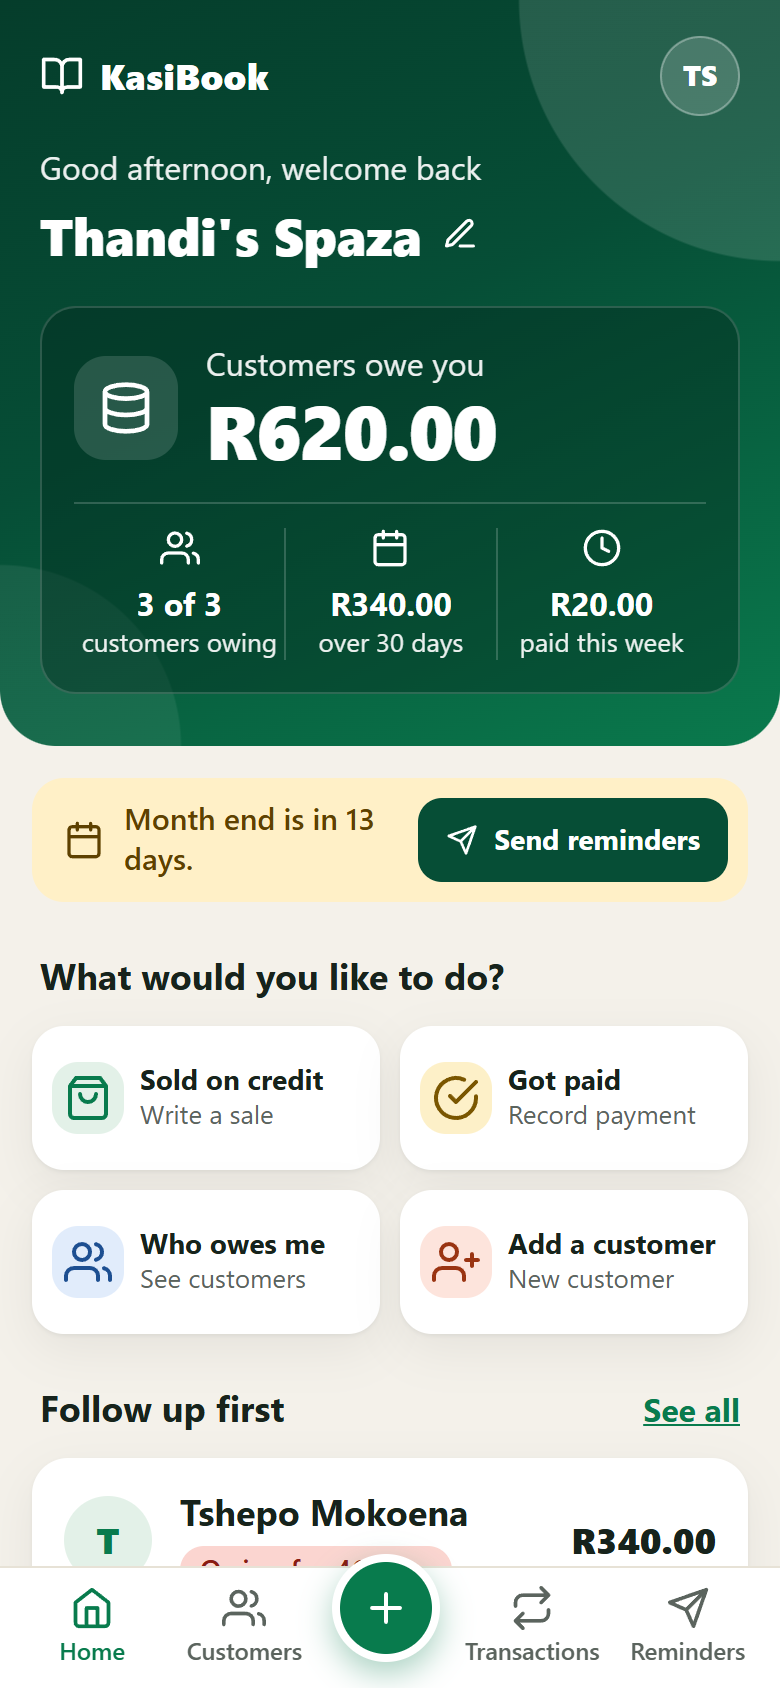
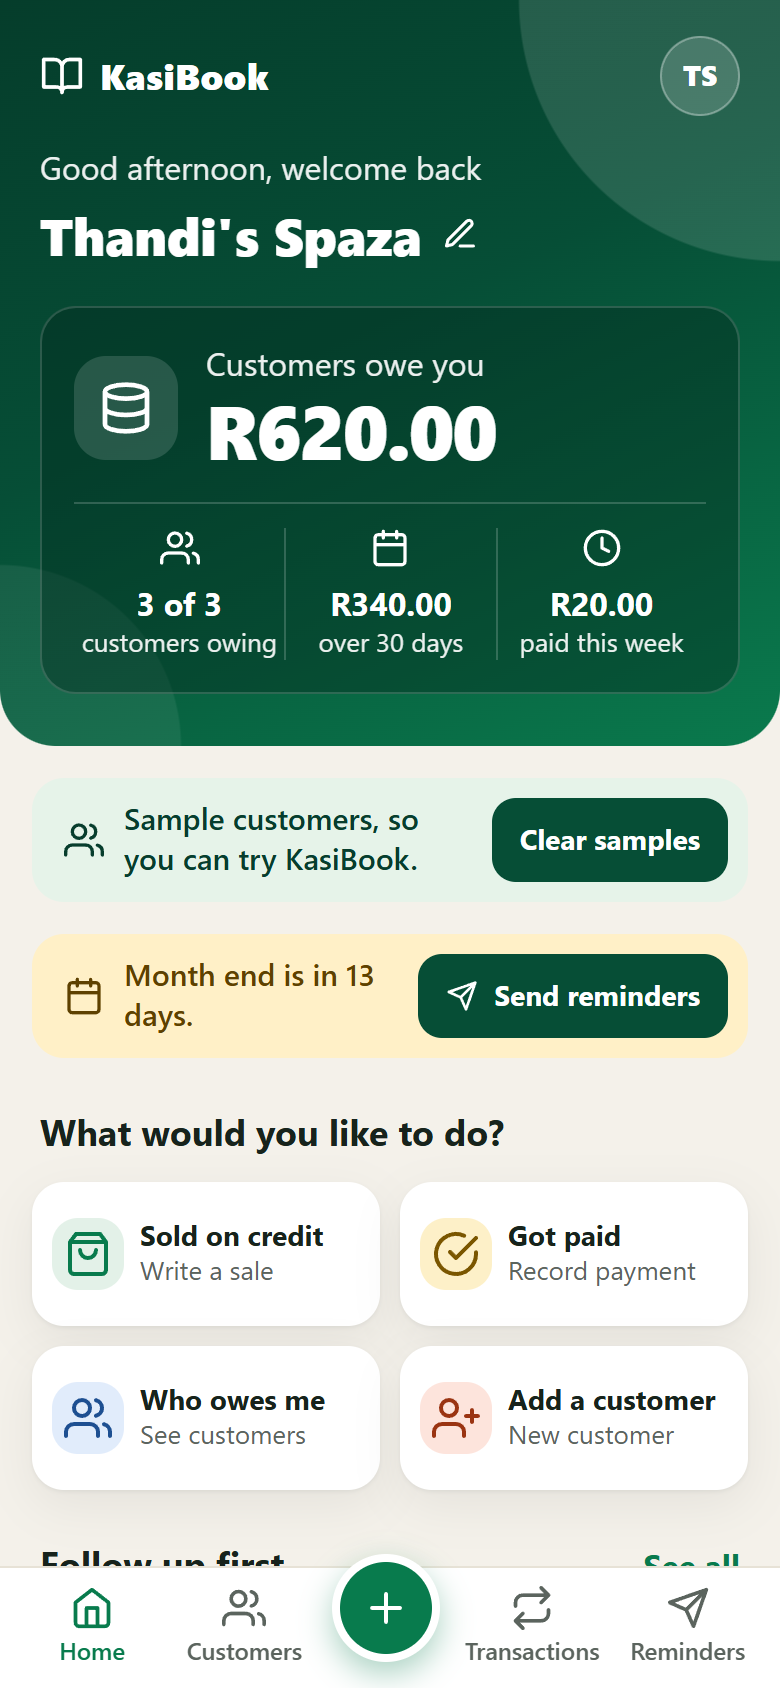
Start new shops with sample customers by default

Changed region(s): [[0.0308, 0.4621, 0.9846, 0.955]]

diff --git a/index.html b/index.html
@@ -63,8 +63,9 @@ button, a { -webkit-tap-highlight-color: transparent; }
 .kpis span { display: block; font-size: 13px; line-height: 1.25; opacity: .92; }
 .banner { display: flex; align-items: center; gap: 10px; margin: 16px 16px 0; padding: 10px 10px 10px 16px; border-radius: 16px; background: #fff0c7; color: #5e4100; font-size: 15px; font-weight: 600; line-height: 1.3; }
 .banner span { flex: 1; }
+.banner.info { background: #e6f3e9; color: #073d2d; }
 .banner i { display: none; font-style: normal; }
-.send { flex: none; display: inline-flex; align-items: center; gap: 8px; min-height: 42px; padding: 0 14px; border-radius: 12px; background: var(--forest); color: #fff; font-size: 14px; font-weight: 700; text-decoration: none; white-space: nowrap; }
+.send { flex: none; border: 0; cursor: pointer; display: inline-flex; align-items: center; gap: 8px; min-height: 42px; padding: 0 14px; border-radius: 12px; background: var(--forest); color: #fff; font-size: 14px; font-weight: 700; text-decoration: none; white-space: nowrap; }
 
 /* Home */
 .tiles { display: grid; grid-template-columns: 1fr 1fr; gap: 10px; margin: 0 16px; }
@@ -659,12 +660,12 @@ function welcomeScreen() {
       step("clock", "gold", "See who owes you", "Every balance, and how long it has been owing."),
       step("chat", "blue", "Remind them on WhatsApp", "One tap sends a polite message with their statement.")),
     el("p", { class: "promise" }, icon("phone", 18), "Works with no data. No sign-up. Free."),
-    el("form", { class: "card", onsubmit: (event) => { event.preventDefault(); startBook(shop.value.trim(), false); } },
+    el("form", { class: "card", onsubmit: (event) => { event.preventDefault(); startBook(shop.value.trim(), true); } },
       viewChoice(),
       el("label", { for: "shop" }, "What is your shop called?"),
       shop,
-      el("button", { class: "btn primary" }, "Start my book"),
-      el("button", { type: "button", class: "btn ghost", onclick: () => startBook(shop.value.trim(), true) }, "Try it with sample customers")),
+      el("button", { class: "btn primary" }, "Start my book with sample customers"),
+      el("button", { type: "button", class: "btn ghost", onclick: () => startBook(shop.value.trim(), false) }, "Start with an empty book")),
     el("p", { class: "note", style: "text-align:center;margin-bottom:24px" }, "Your book stays on this device. Nobody else can see it."));
 }
 
@@ -697,6 +698,9 @@ function homeScreen() {
           kpi("users", `${owing.length} of ${book.customers.length}`, "customers owing"),
           kpi("calendar", rand(overdue), "over 30 days"),
           kpi("clock", rand(paidSince(book.customers, 7)), "paid this week")))),
+    book.customers.some((customer) => customer.sample) && el("p", { class: "banner info" }, icon("users", 20),
+      el("span", {}, "Sample customers, so you can try KasiBook."),
+      el("button", { class: "send", onclick: clearSamples }, "Clear samples")),
     owing.length > 0 && el("p", { class: "banner" }, icon("calendar", 20),
       el("span", {}, left ? `Month end is in ${left} day${left === 1 ? "" : "s"}.` : "Today is month end.", el("i", {}, " A good time to send reminders.")),
       el("a", { class: "send", href: "#list=remind" }, icon("send", 16), "Send reminders")),
@@ -710,9 +714,6 @@ function homeScreen() {
       el("div", { class: "section" }, el("h2", {}, "Follow up first"), el("a", { href: "#list" }, "See all")),
       el("ul", { class: "list compact" }, tableHead(), followUp.map((customer) => customerRow(customer)))],
     book.customers.length === 0 && emptyState("Your book is empty", "Start by adding your first customer. Then record what they buy on credit.", addButton("Add your first customer")),
-    book.customers.some((customer) => customer.sample) && el("p", { class: "note" },
-      "These are sample customers so you can try KasiBook. ",
-      el("button", { class: "link", onclick: clearSamples }, "Clear samples")),
     el("p", { class: "note", style: "margin-bottom:24px" }, "Saved on this device. Works with no data."));
 }
 

diff --git a/README.md b/README.md
@@ -36,12 +36,12 @@ The home screen greets the owner and asks one question: "What would you like to 
 
 ## For shop owners: you do not need to be technical
 
-1. Open the link on your phone. Type your shop's name and tap **Start my book**.
+1. Open the link on your phone. Type your shop's name and tap **Start my book with sample customers**. Three sample customers show you how everything works.
 2. Tap your browser's menu and choose **Add to Home screen**. KasiBook now opens like any other app, even with no data.
 3. Tap **Add a customer** and type a name. A WhatsApp number is optional.
 4. When they buy on credit, tap **Sold on credit**, tap their name and tap the amount. That is all.
 
-Not sure yet? Tap **Try it with sample customers** on the welcome screen. Tap **Clear samples** when you are ready to start your own book.
+Tap **Clear samples** at the top of the home screen when you are ready to start your own book. Or choose **Start with an empty book** on the welcome screen.
 
 ## How it works
 
